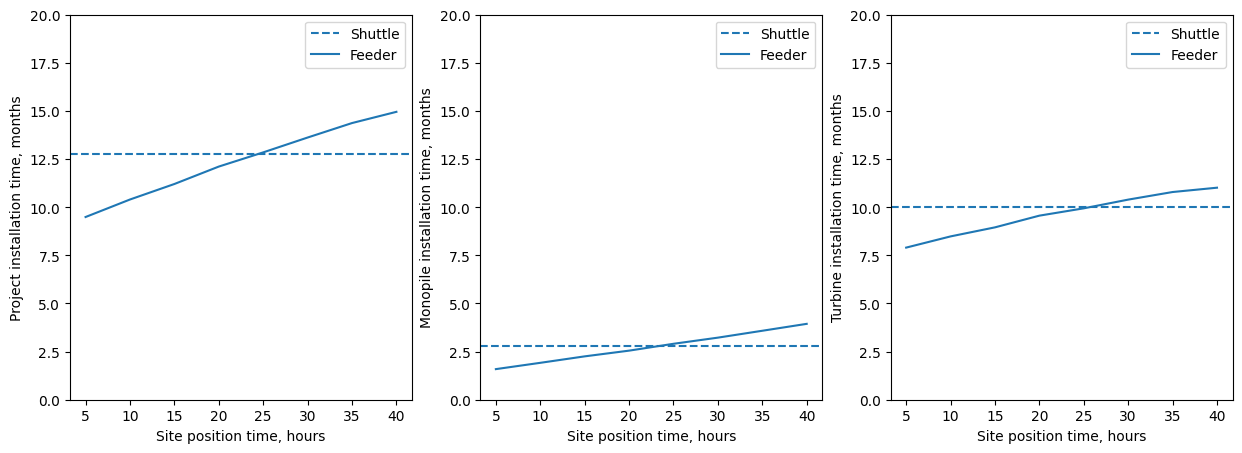
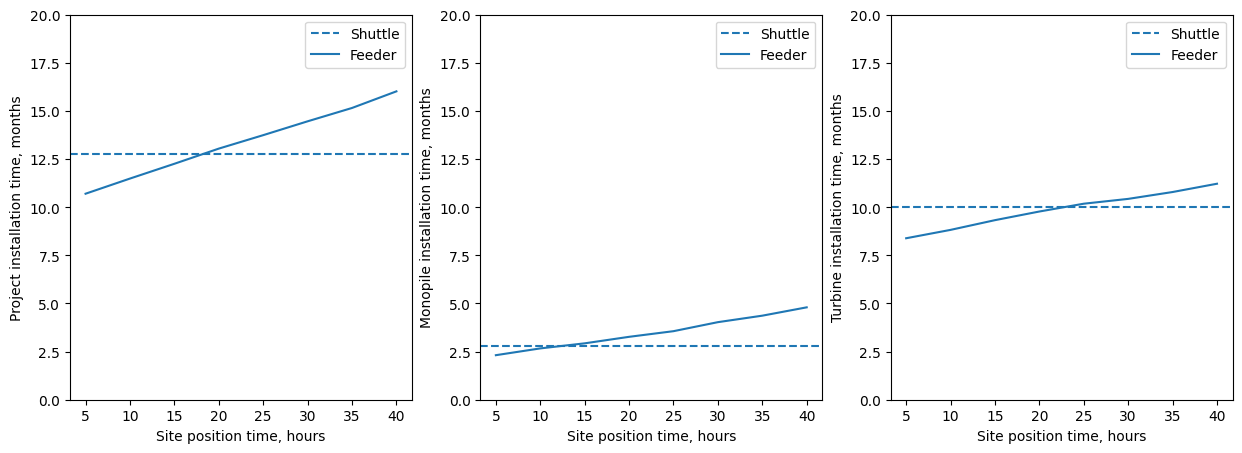
Add scenario for 800 km feedering and ran parametric sweep

diff --git a/run_param_sweep.py b/run_param_sweep.py
@@ -38,7 +38,7 @@ installation_times = []
 
 # Select baseline config and config to sweep over
 baseline_config = 'configs/shuttle_amer_freq.yaml'
-sweep_config = 'configs/feeder_freq.yaml'
+sweep_config = 'configs/feeder_foreign_freq_far.yaml'
 
 # Define parameter sweep
 site_position_vals = [40, 35, 30, 25, 20, 15, 10, 5] # site_position_time
